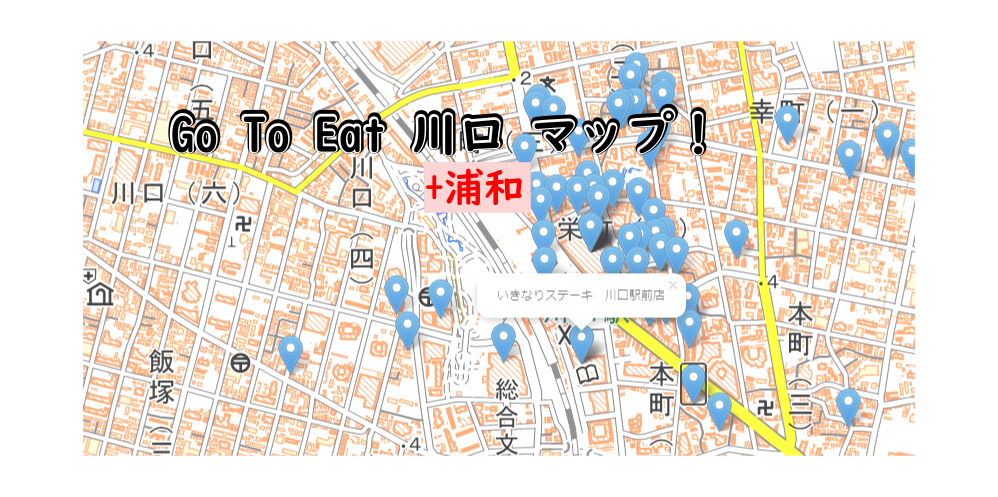
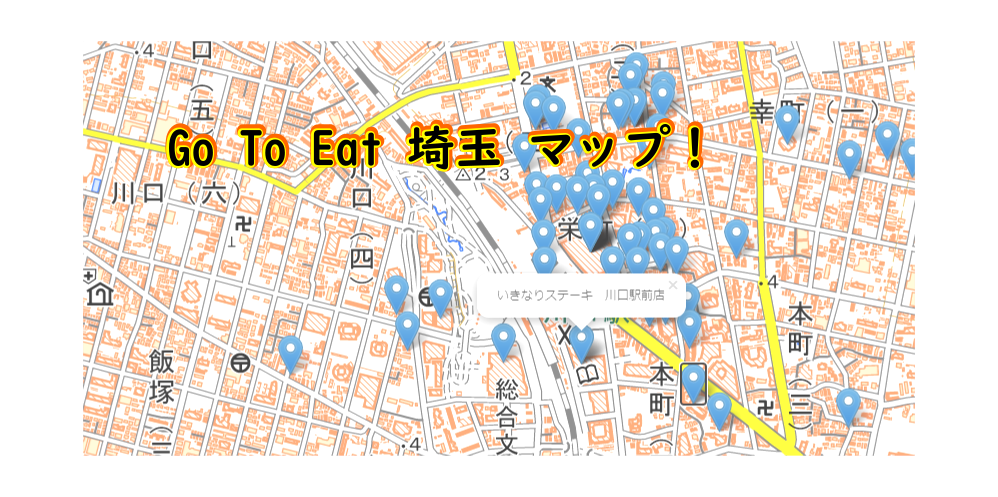
update cover

Changed region(s): [[0.1553, 0.2113, 0.7144, 0.4527]]

diff --git a/index.html b/index.html
@@ -14,8 +14,8 @@
     gtag('config', 'G-BJXZBSHKZQ');
   </script>
 
-  <title>Go To Eat 埼玉 を地図に出してみた by @ina_ani</title>
-  <meta name="og:title" content="Go To Eat 埼玉 を地図に出してみた by @ina_ani">
+  <title>Go To Eat 埼玉 マップ！</title>
+  <meta name="og:title" content="Go To Eat 埼玉 マップ！">
   <meta name="og:description" content="Go To Eatの店舗を地図に出してみました。">
 
   <meta name="og:type" content="article">
@@ -80,7 +80,7 @@
 <body>
   <div id="splash">
     <div><button id="close">[閉じて地図を見る]</div>
-    <h1>Go To Eat 埼玉 を地図に出してみた by @ina_ani</h1>
+    <h1>Go To Eat 埼玉 マップ！ by @ina_ani</h1>
     <div class="box">
       Go To Eatの店舗を地図に出してみました。<br/>
       <br/>
